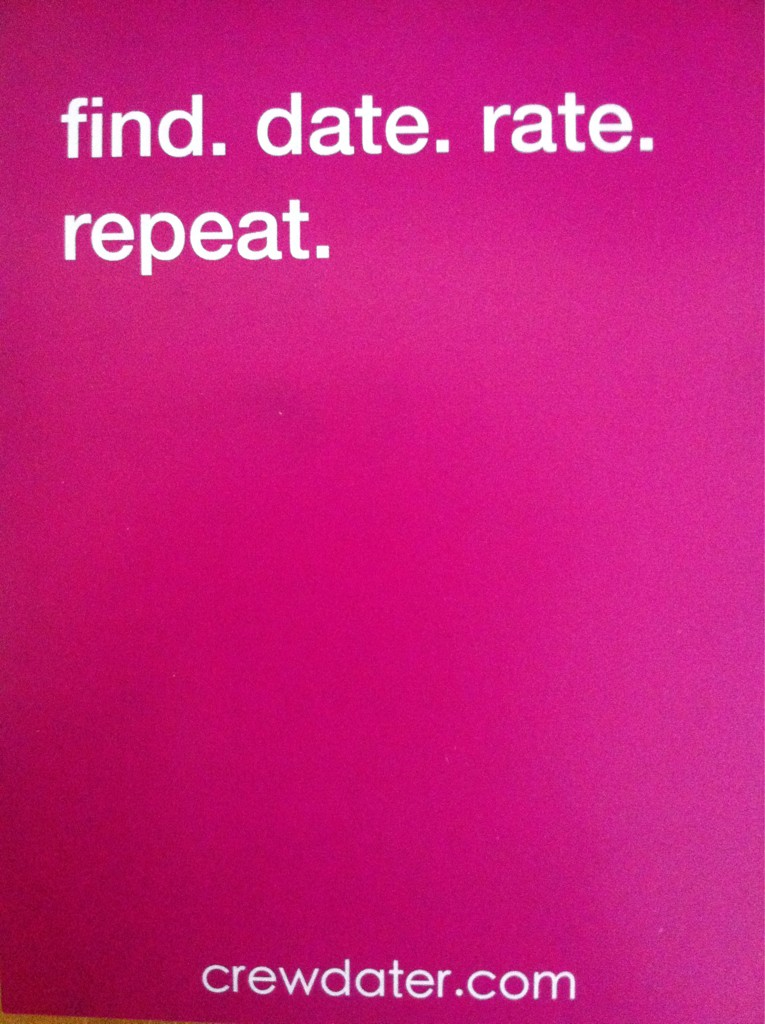
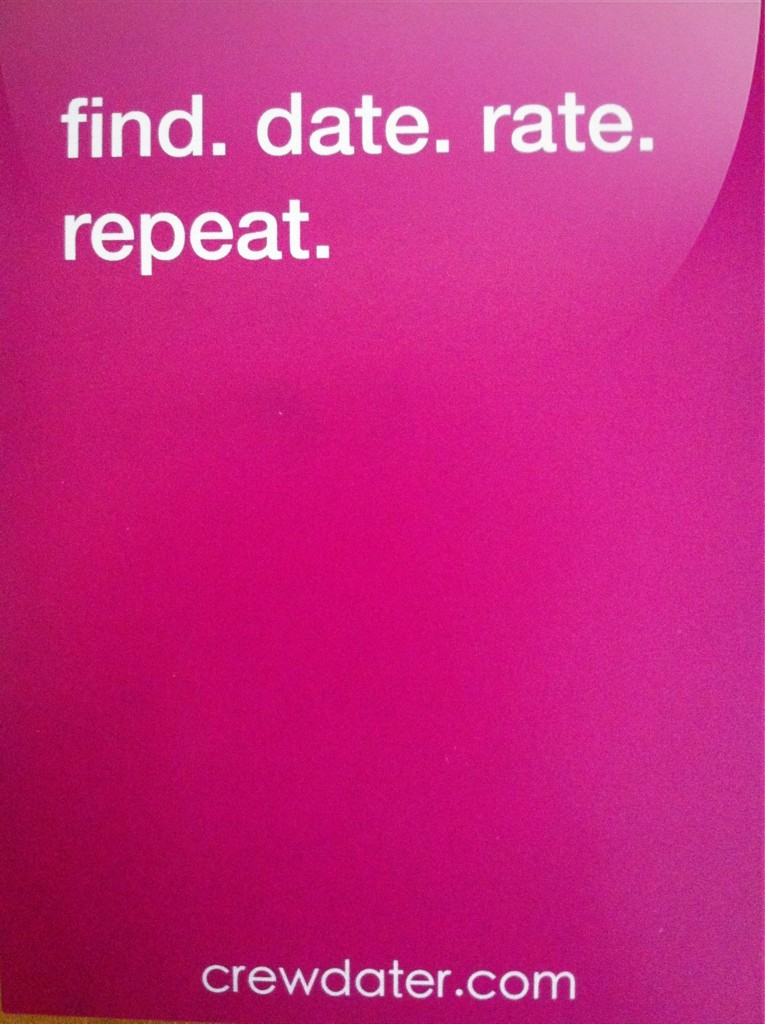
added gloss to images

Changed region(s): [[0.0, 0.0, 1.0, 0.25]]

diff --git a/static/about.html b/static/about.html
@@ -23,7 +23,7 @@
 
     <div class="content centered shadow">
         <h1>I am Max Jaderberg</h1>
-        <img src="/media/img/me2.jpg" style="float: right; margin-top: 0px;margin-right: 50px;">
+        <img src="/media/img/me3.jpg" style="float: right; margin-top: 0px;margin-right: 50px;">
         <p style="width: 400px;">
             I am a student at Oxford University, who plays around with computers all day - I am currently finishing a Masters in Engineering and will be starting a DPhil in Computer Vision.
         </p>
